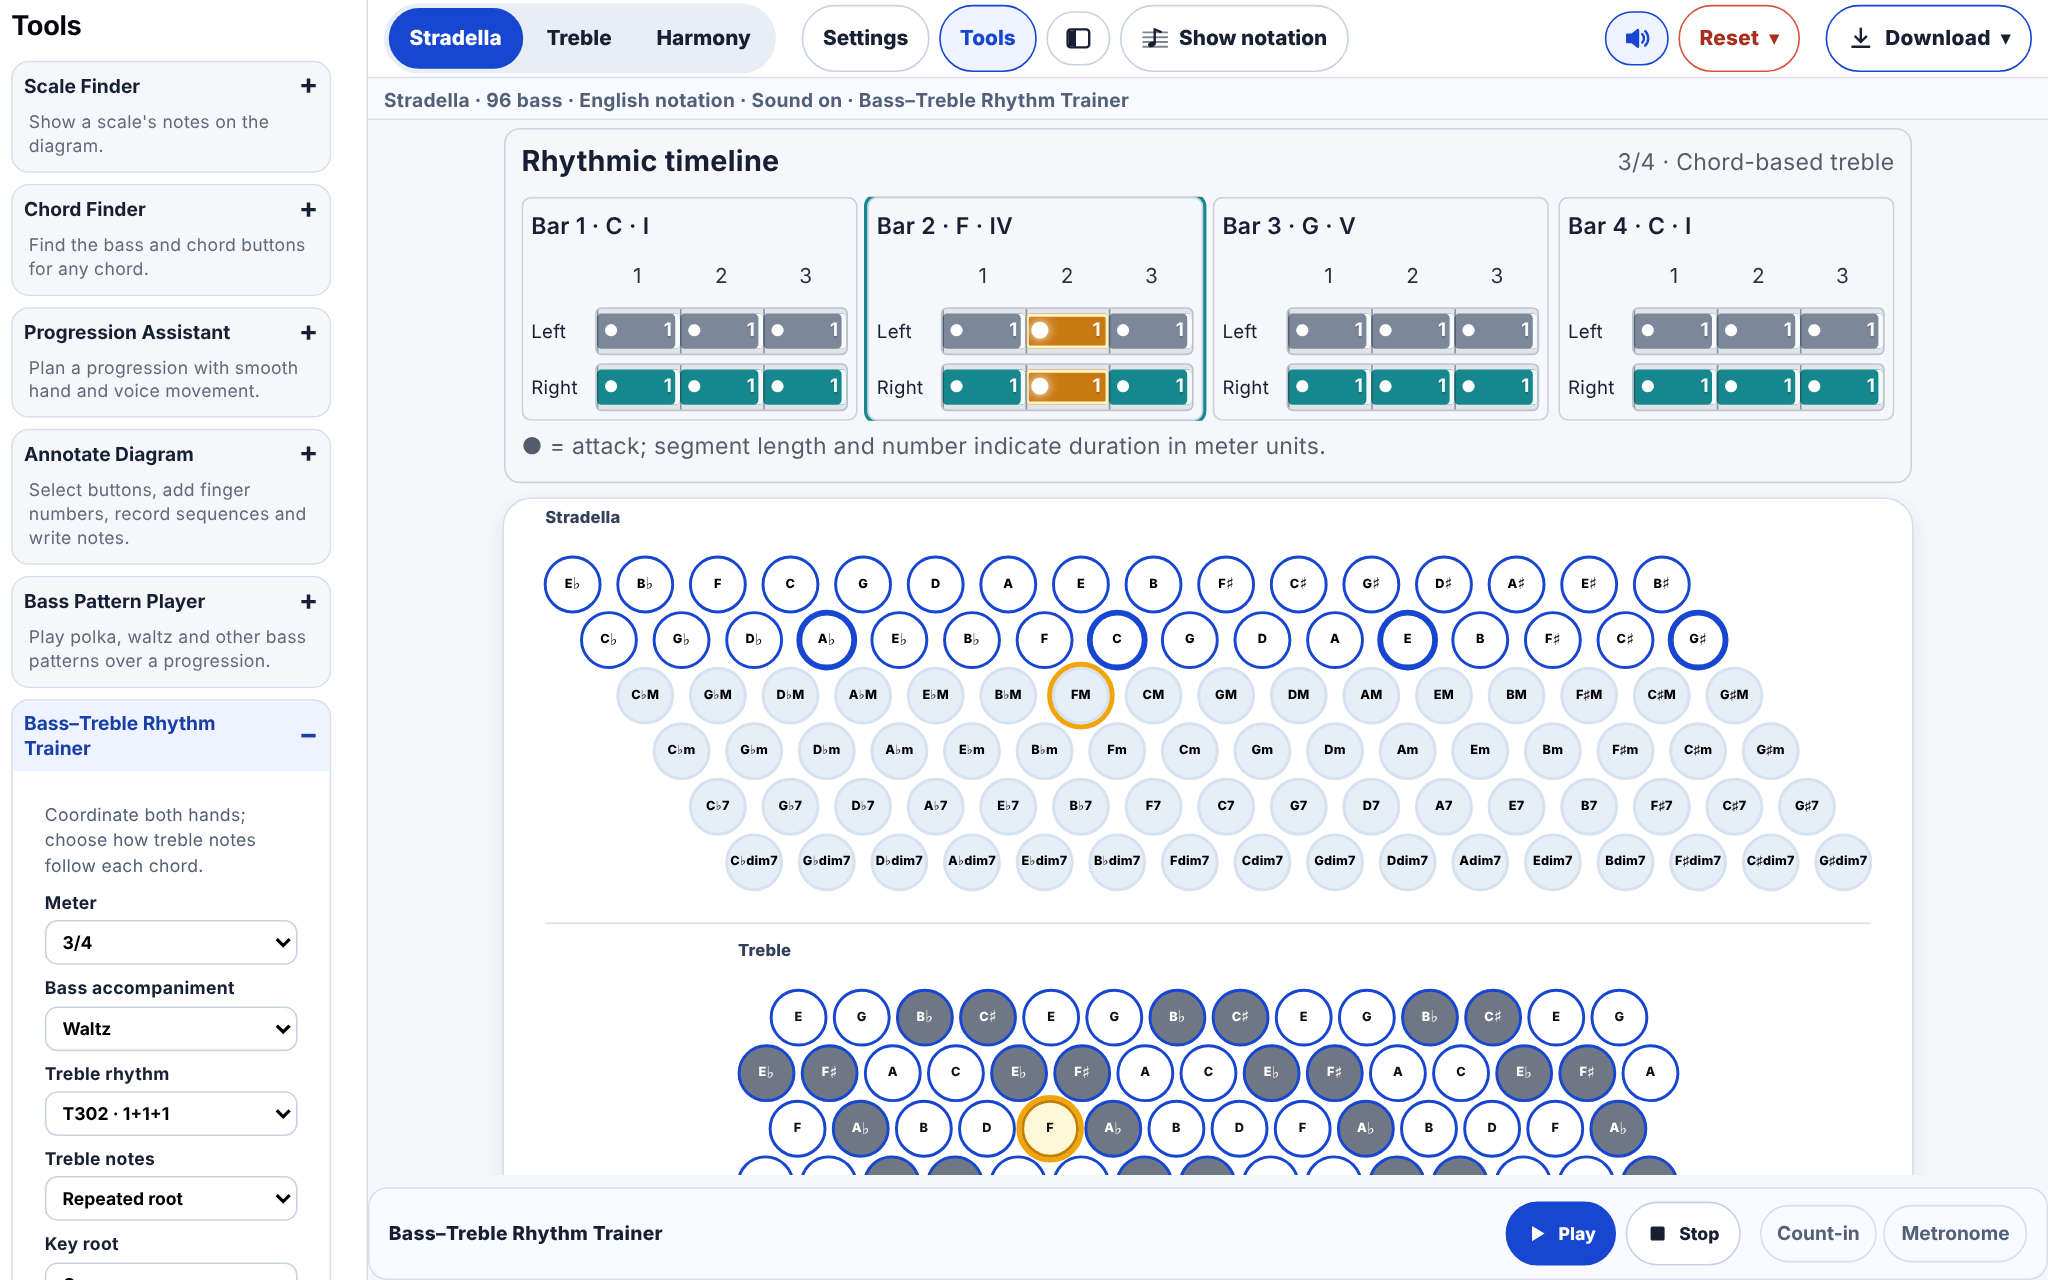
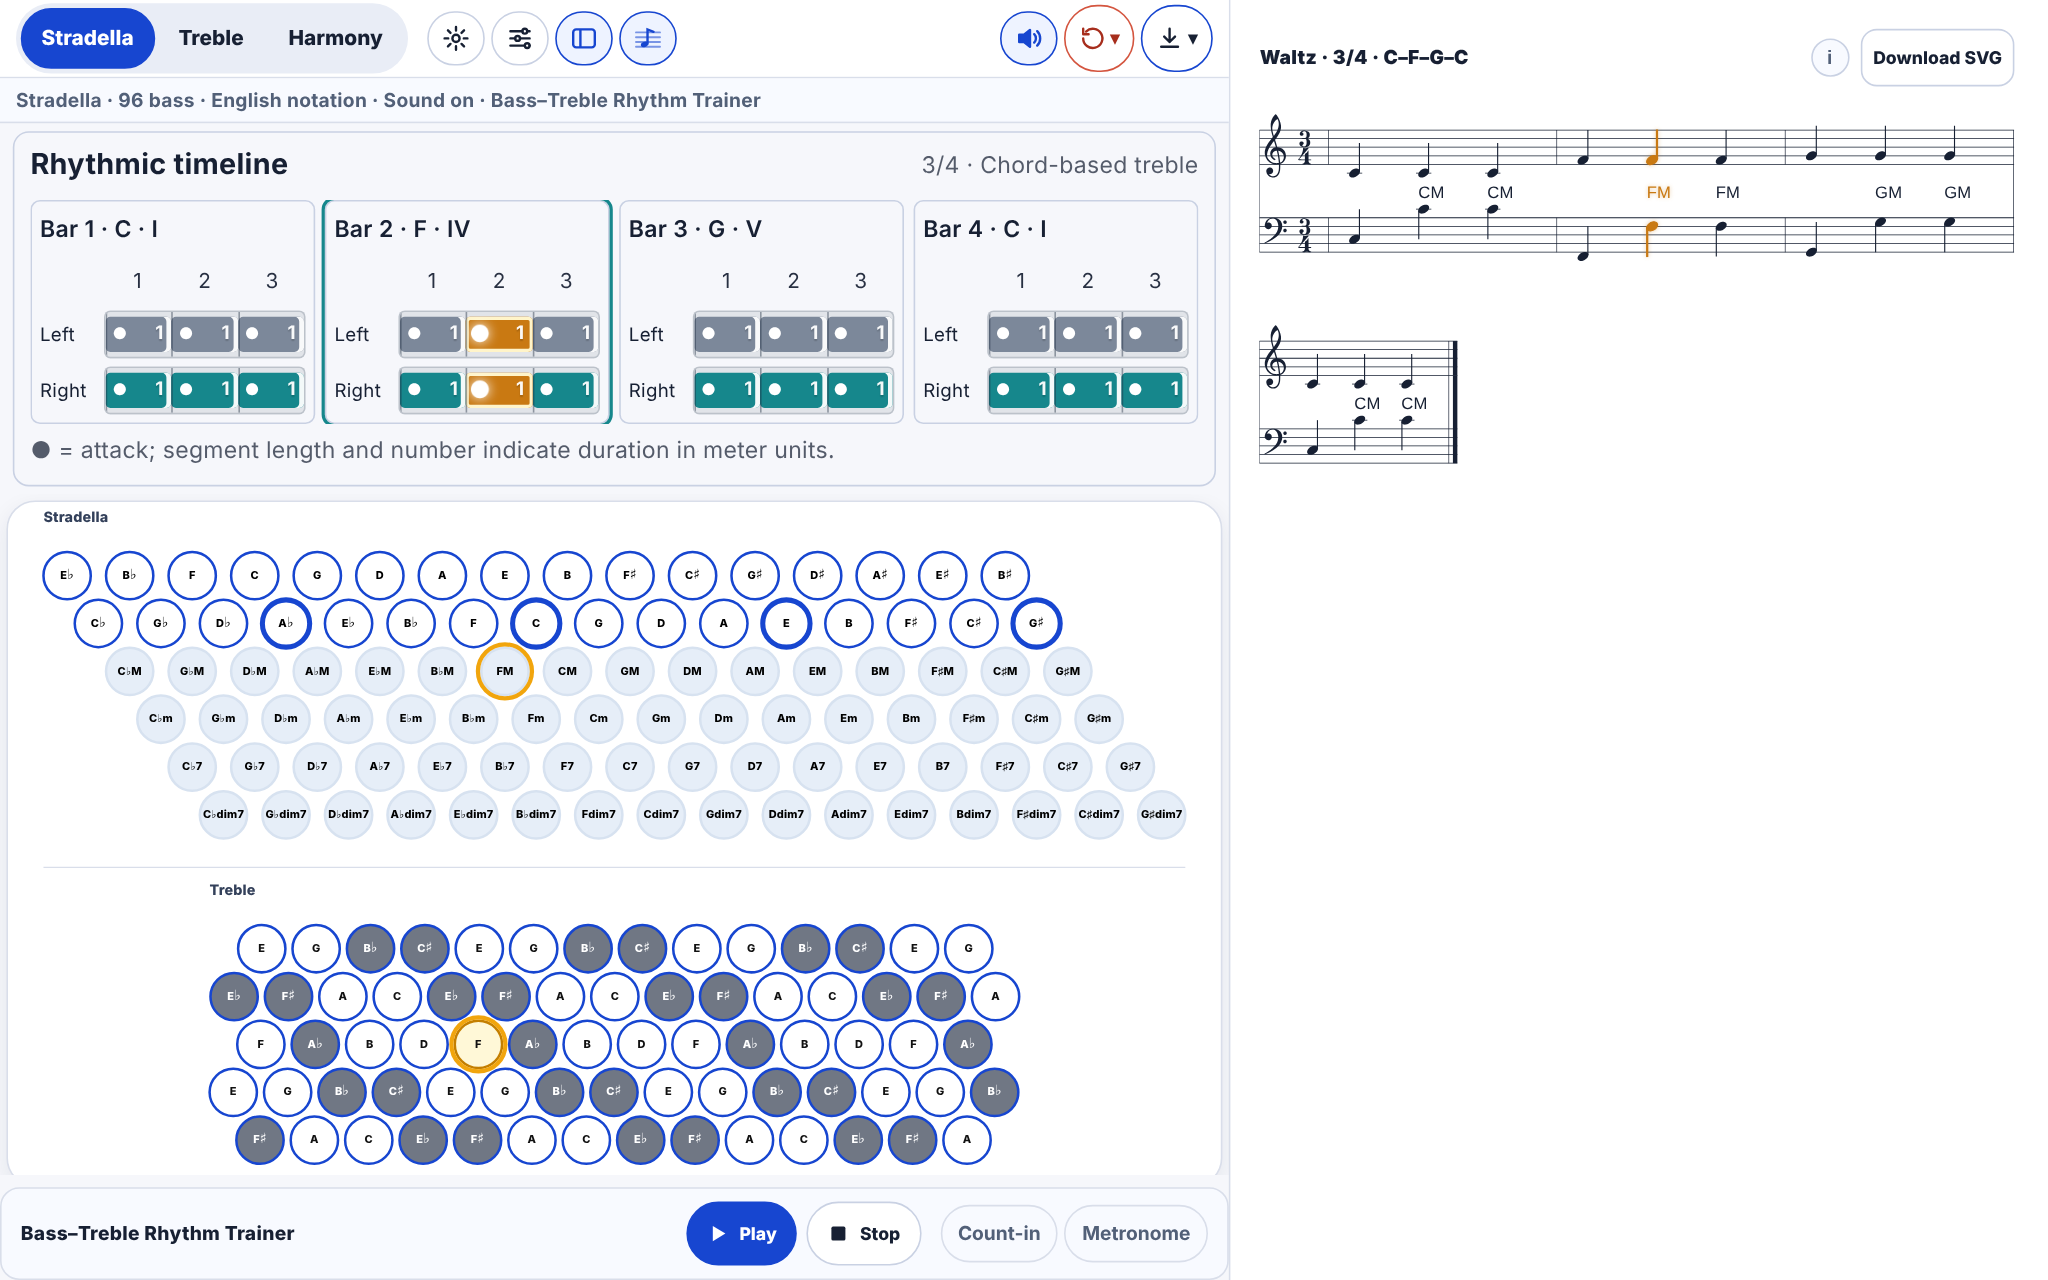
README: the Rhythm Trainer screenshot shows its score
The Rhythm Trainer screenshot now shows the two-staff score in the right
panel, widened, with the Tools panel hidden: the timeline, both
diagrams and the score all light up the note being played. It is the
README's only view of notation in the right panel.

Changed region(s): [[0.0, 0.0, 0.9688, 1.0], [0.7812, 0.0, 1.0, 0.0625], [0.875, 0.9375, 1.0, 0.9688]]

diff --git a/README.md b/README.md
@@ -30,9 +30,9 @@
 
 ### Bass–Treble Rhythm Trainer
 
-![Bass–Treble Rhythm Trainer playing a waltz in 3/4](docs/images/rhythm-trainer.png)
+![Bass–Treble Rhythm Trainer playing a waltz in 3/4, with its score](docs/images/rhythm-trainer.png)
 
-*Coordinate both hands: the timeline shows each bar's left- and right-hand attacks over the chord progression, and the current beat lights up on the timeline and on both diagrams while it plays. Choose the meter, the accompaniment, the treble rhythm and how the treble notes follow each chord.*
+*Coordinate both hands: the timeline shows each bar's left- and right-hand attacks over the chord progression, and the current beat lights up on the timeline, on both diagrams and in the two-staff score while it plays. Choose the meter, the accompaniment, the treble rhythm and how the treble notes follow each chord. Shown here with the Tools panel hidden.*
 
 ### Harmony Explorer
 
